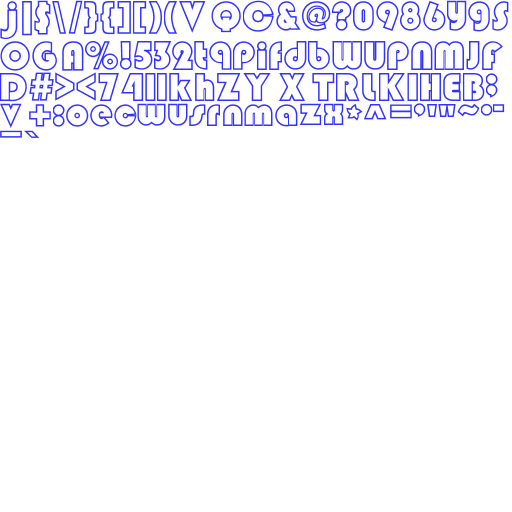
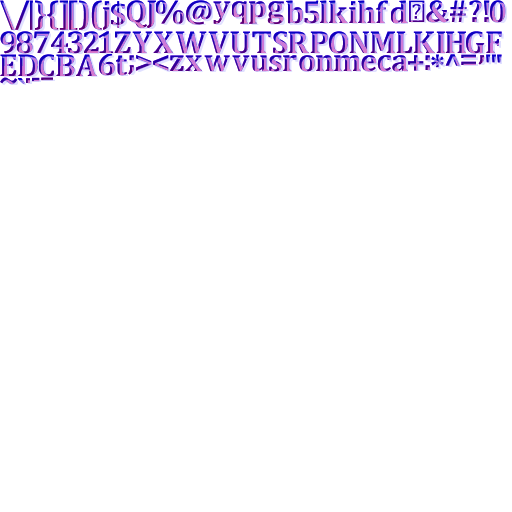
修改字体

Changed region(s): [[0.0, 0.0, 1.0, 0.2812]]

diff --git a/Crystal/src/com/xinlan/crystal/role/Score.java b/Crystal/src/com/xinlan/crystal/role/Score.java
@@ -27,8 +27,8 @@ public final class Score
     public Score(GameScreen context)
     {
         this.context = context;
-        bitmapFont = new BitmapFont(Gdx.files.internal("font/score.fnt"),
-                Gdx.files.internal("font/score.png"), false);
+        bitmapFont = new BitmapFont(Gdx.files.internal("font/score2.fnt"),
+                Gdx.files.internal("font/score2.png"), false);
         bitmapFont.setColor(0.5f, 0.5f, 0.5f, 1); // 设置颜色
         bitmapFont.setScale(1.0f); // 设置字体比例大小
     }

diff --git a/Crystal/src/com/xinlan/crystal/screen/GameScreen.java b/Crystal/src/com/xinlan/crystal/screen/GameScreen.java
@@ -65,7 +65,7 @@ public final class GameScreen extends DefaultScreen {
 		touchListener = new TouchListener(this);
 		Gdx.input.setInputProcessor(touchListener);
 		
-		//gameSound.bgMusic.play();
+		gameSound.bgMusic.play();
 	}
 
 	@Override
